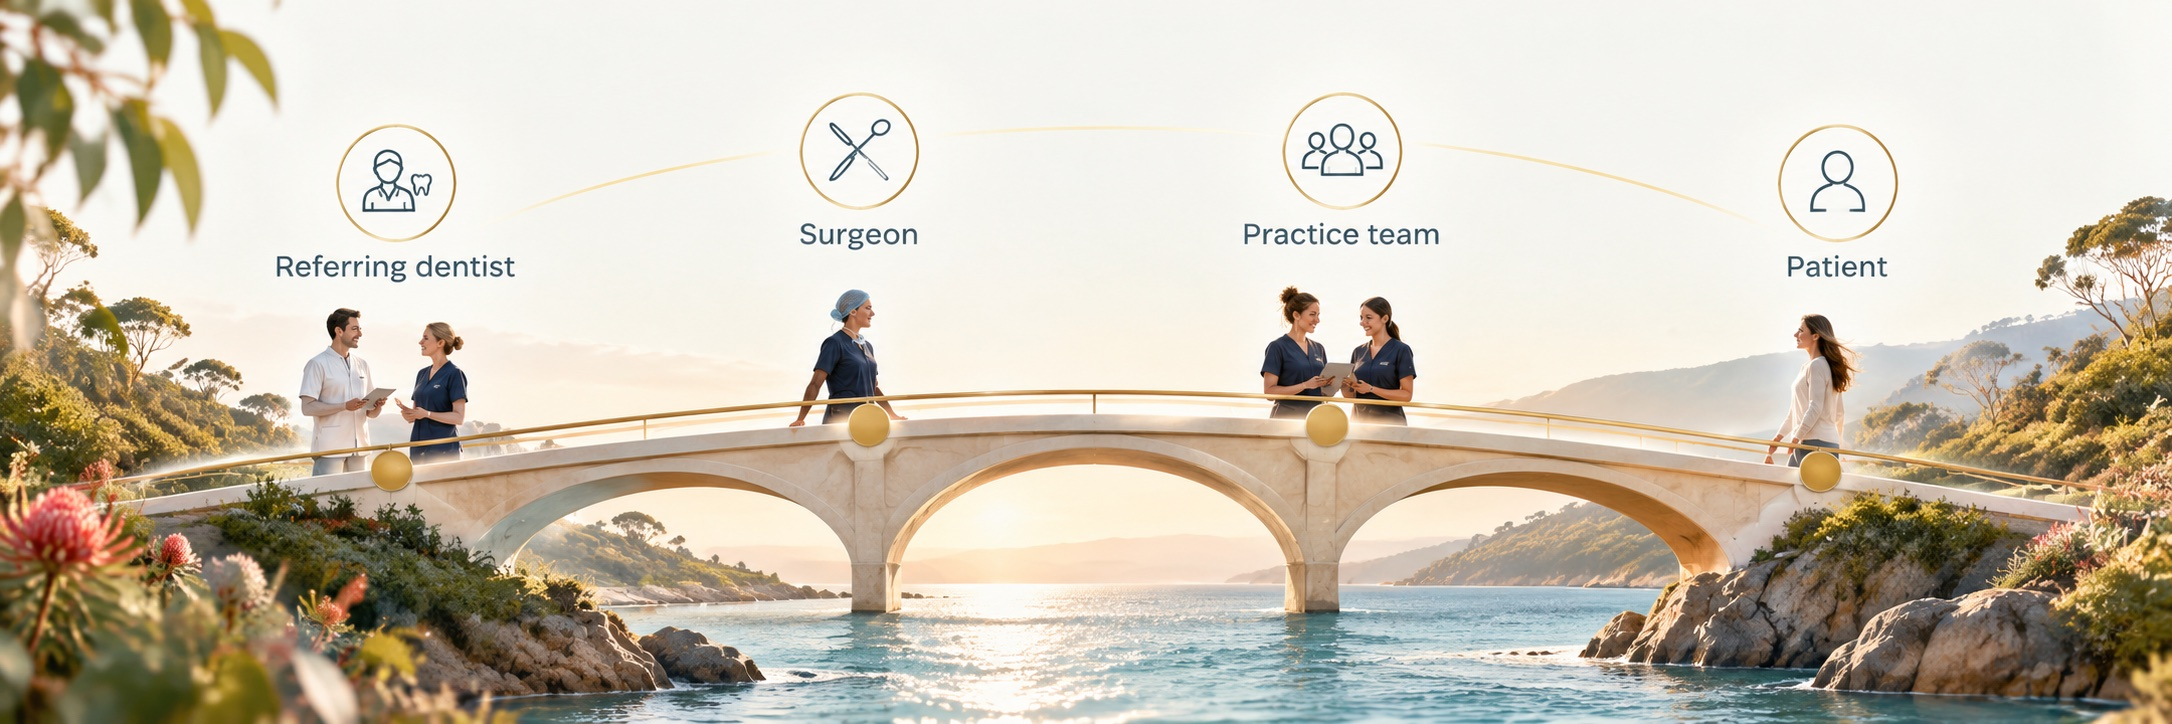
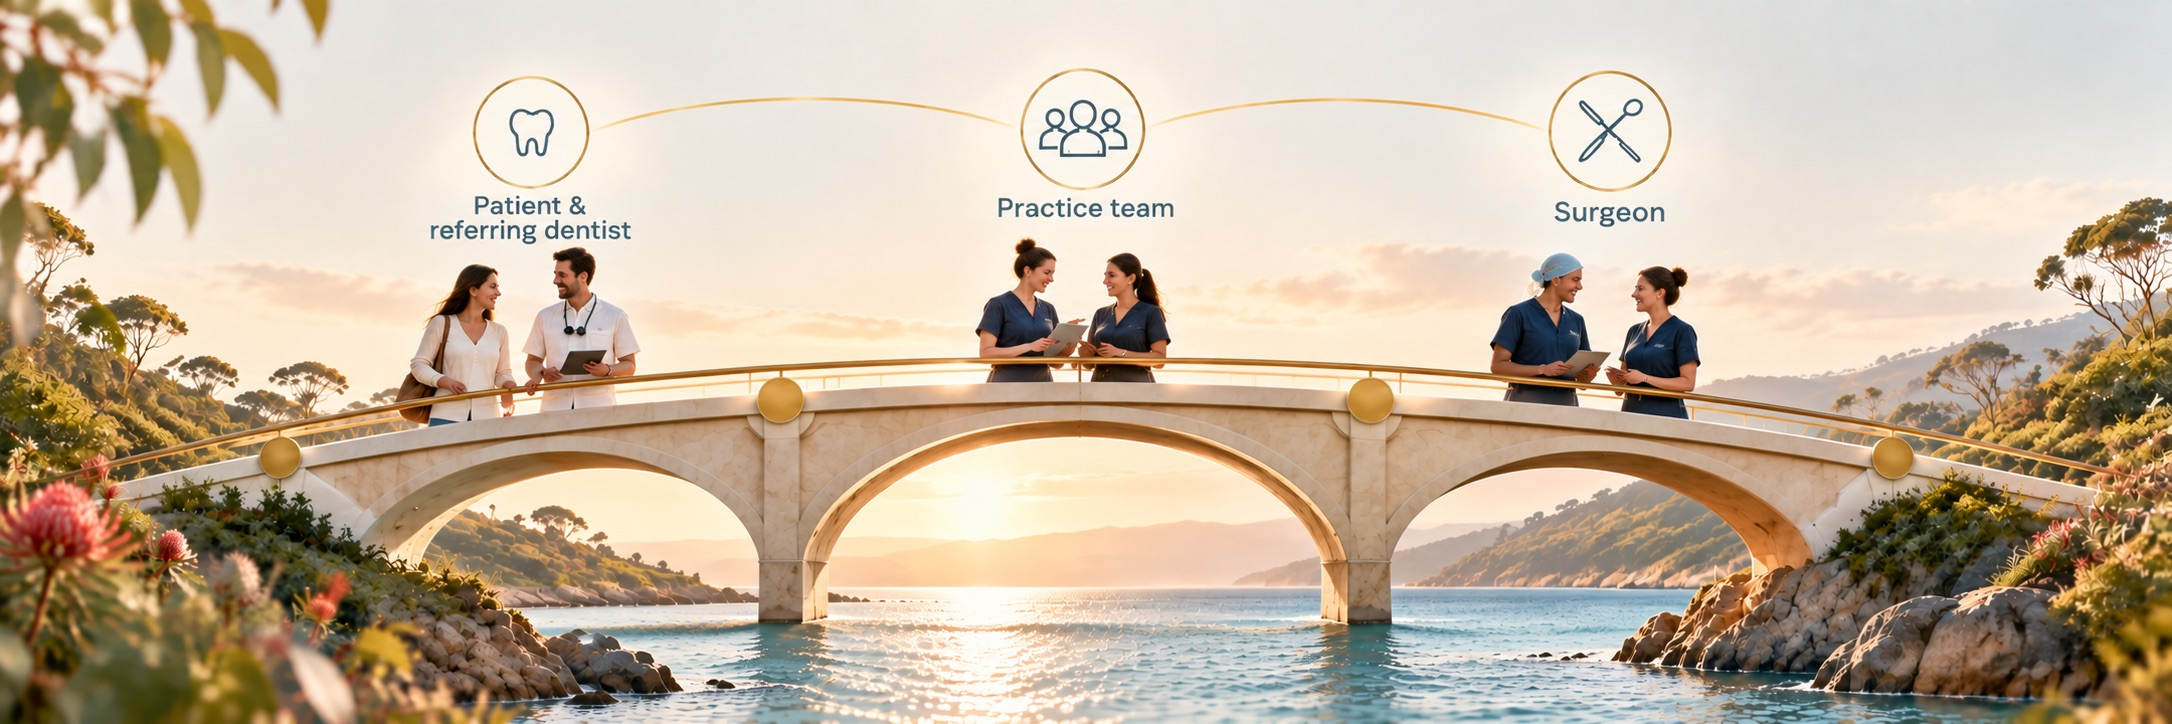
Bridge page: new hero picture with patient and dentist together

diff --git a/bridge/index.html b/bridge/index.html
@@ -201,7 +201,7 @@ footer p{margin:.25rem 0}
     <a class="btn" href="#join">Join the waitlist</a>
 
     <div class="span">
-      <img src="brand/bridge-hero.jpg" width="2172" height="724" alt="A stone bridge over a bay at sunrise linking four people: a referring dentist, a surgeon, the practice team and a patient">
+      <img src="brand/bridge-hero.jpg" width="2172" height="724" alt="A stone bridge over a bay at sunrise linking a patient and referring dentist, the practice team, and a surgeon">
     </div>
   </div>
 
